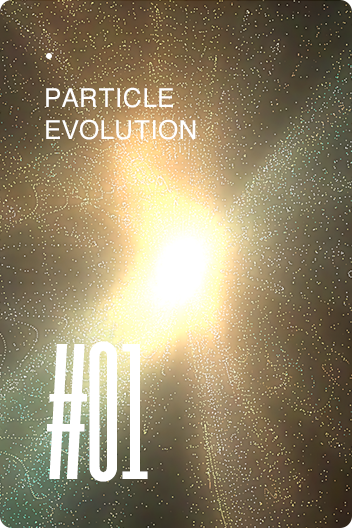
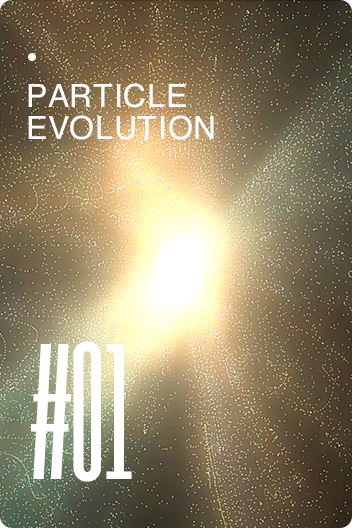
fix: archive-sp

Changed region(s): [[0.0938, 0.6364, 0.4375, 0.9394], [0.0625, 0.1515, 0.625, 0.2727], [0.0625, 0.0909, 0.1562, 0.1212]]

diff --git a/pages/archive.vue b/pages/archive.vue
@@ -7,7 +7,7 @@
         ref="ArchiveItem"
         class="archive-item"
         :data-pcimg="`/images/${archive.image.pc}`"
-        :data-spimg="`/images/archive-01-sp.png`"
+        :data-spimg="`/images/${archive.image.sp}`"
       >
         <a
           :href="`${archive.link}`"
@@ -22,7 +22,7 @@
           </span> -->
           <picture>
             <source
-              :srcset="`/images/archive-01-sp.png`"
+              :srcset="`/images/${archive.image.sp}`"
               media="(max-width: 767px)"
             />
             <img
@@ -442,7 +442,7 @@ export default {
     },
     onOpening() {
       this.$gsap.to(this.opOffset, {
-        duration: this.$SITECONFIG.fullDuration + 0.40,
+        duration: this.$SITECONFIG.fullDuration + 0.80,
         delay: 0.2,
         ease: this.$EASING.transform,
         value: -this.opOffset.end,
